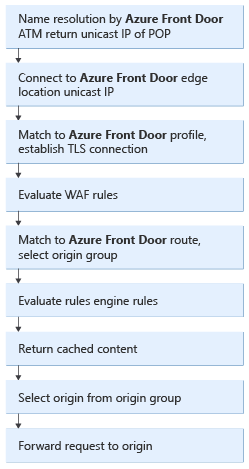
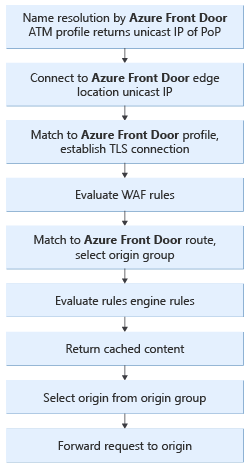
update diagram

diff --git a/articles/frontdoor/front-door-traffic-acceleration.md b/articles/frontdoor/front-door-traffic-acceleration.md
@@ -6,7 +6,7 @@ author: johndowns
 ms.author: jodowns
 ms.service: azure-frontdoor
 ms.topic: concept-article
-ms.date: 02/20/2026
+ms.date: 02/24/2026
 zone_pivot_groups: front-door-tiers
 ---
 
@@ -34,7 +34,7 @@ Front Door organizes its edge locations into primary and fallback *rings*. The o
 
 The outer ring is the preferred target for all traffic, and the inner ring is designed to handle traffic overflow from the outer ring. Each frontend host or domain served by Front Door gets assigned primary and fallback VIPs (Virtual Internet Protocol addresses), which gets announced by edge locations in both the inner and outer ring.
 
-Front Door's architecture ensures that requests from your end users always reach the closest Front Door edge locations. If the preferred Front Door edge location is unhealthy, all traffic automatically moves to the next optimal edge location.
+Front Door's architecture ensures that requests from your end users always reach the closest Front Door edge locations. If the preferred Front Door edge location is unhealthy, all traffic automatically moves to the next closest edge location.
 
 ::: zone-end
 
@@ -47,7 +47,7 @@ Traffic routed to the Azure Front Door edge locations uses Unicast for both DNS 
 
 Front Door organizes its edge locations into primary and fallback rings. The outer ring has edge locations that are closer to users, offering lower latencies. The inner ring has edge locations that can handle the failover for the outer ring edge location in case any issues happen.
 The outer ring is the preferred target for all traffic, and the inner ring is designed to handle traffic overflow from the outer ring. Each frontend host or domain served by Front Door gets assigned primary and fallback VIPs (Virtual Internet Protocol addresses), which gets announced by edge locations in both the inner and outer ring.
-Front Door's architecture ensures that requests from your end users always reach the optimal Front Door edge locations. If the preferred Front Door edge location is unhealthy, all traffic automatically moves to the next closest edge location.
+Front Door's architecture ensures that requests from your end users always reach the optimal Front Door edge locations. If the preferred Front Door edge location is unhealthy, all traffic automatically moves to the next optimal edge location.
 
 ## Connect to the Front Door edge location (Split TCP)
 

diff --git a/articles/frontdoor/front-door-routing-architecture.md b/articles/frontdoor/front-door-routing-architecture.md
@@ -6,7 +6,7 @@ author: halkazwini
 ms.author: halkazwini
 ms.service: azure-frontdoor
 ms.topic: concept-article
-ms.date: 02/20/2026
+ms.date: 02/24/2026
 zone_pivot_groups: front-door-tiers
 ---
 
@@ -36,13 +36,13 @@ The following sections describe these steps in detail.
 
 ::: zone pivot="front-door-standard-premium"
 
-## Name resolution by Azure Front Door's Traffic Manager returns POP unicast IP
+## Name resolution by Azure Front Door's Traffic Manager returns PoP unicast IP
 
-The user or client application initiates a connection to the origin behind Azure Front Door. The domain name resolves to the Front Door's Azure Traffic Manager endpoint. The Traffic Manager consumes health and availability signals from all the Front Door POPs across the world. It determines the optimal POP to serve the request and returns the unicast IP of that POP.
+The user or client application initiates a connection to the origin behind Azure Front Door. The domain name resolves to the Front Door's Azure Traffic Manager endpoint. The Traffic Manager consumes health and availability signals from all the Front Door PoPs across the world. It determines the optimal PoP to serve the request and returns the unicast IP of that PoP.
 
-## Connect to Azure Front Door POP Unicast IP
+## Connect to Azure Front Door PoP Unicast IP
 
-Client makes a direct connection to the returned IP address of the Front Door POP location.
+Client makes a direct connection to the returned IP address of the Front Door PoP location.
 
 ## Match request to a Front Door profile
 
